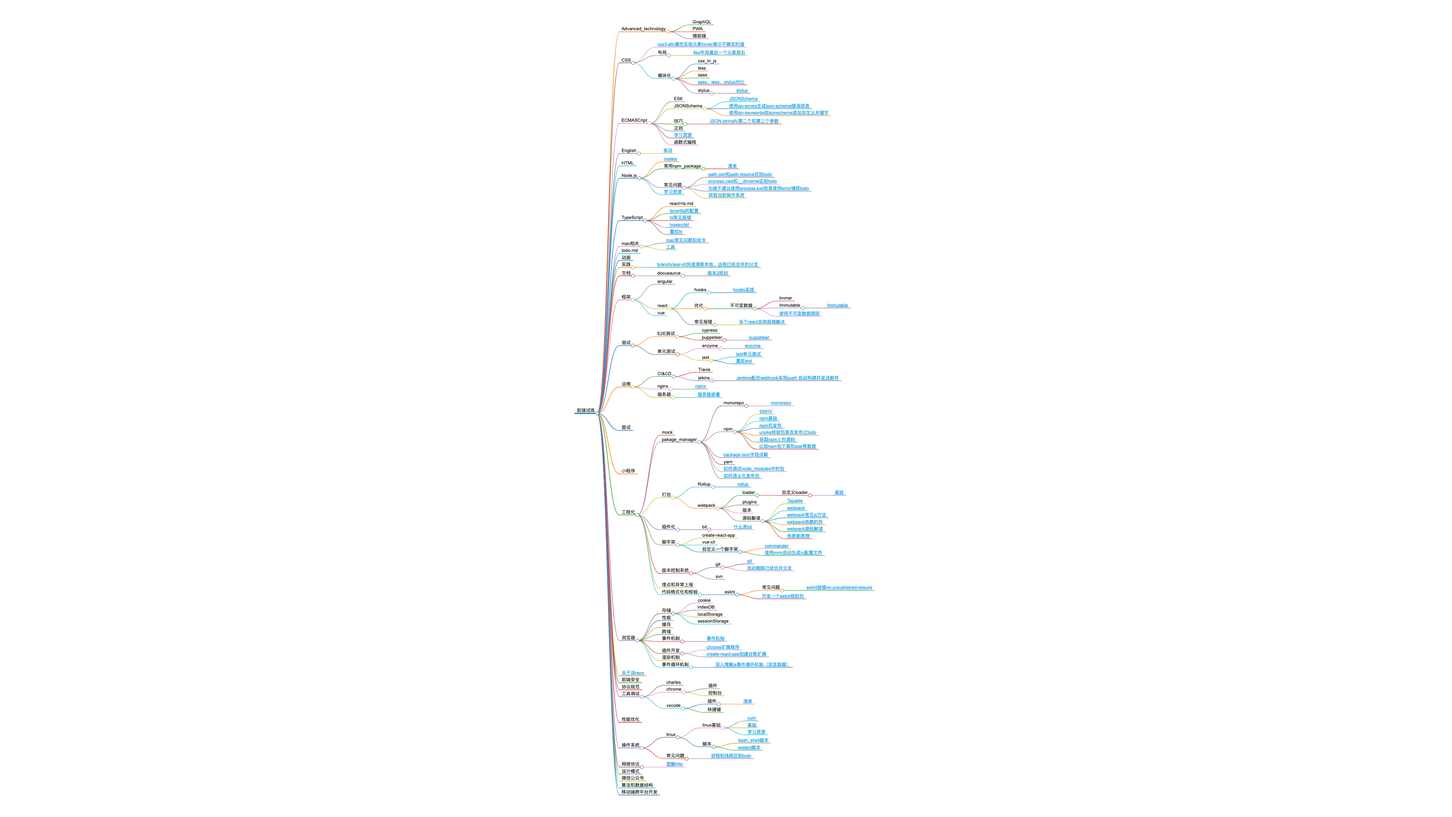
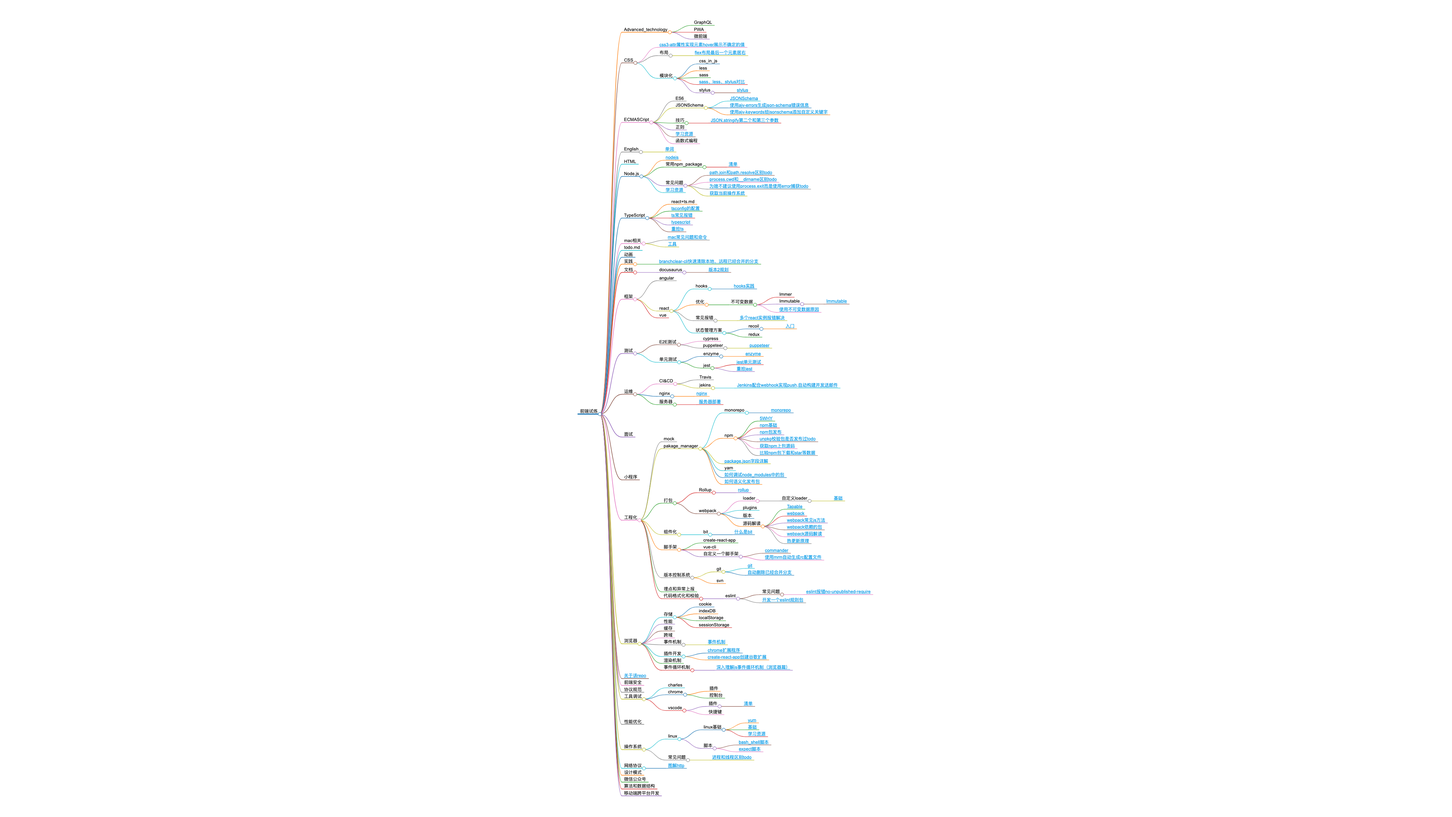
chore: updata思维导图

Changed region(s): [[0.4062, 0.031, 0.5938, 0.9926]]

diff --git a/website/static/xmind.html b/website/static/xmind.html
@@ -28,6 +28,6 @@
         (init ? init(loadPlugins, items, opts) : Promise.resolve()).then(() => {
           window.mm = Markmap.create('svg#mindmap', null, data);
         });
-      })({"t":"heading","d":1,"v":"前端试炼","c":[{"t":"list_item","d":2,"v":"Advanced_technology","c":[{"t":"list_item","d":3,"v":"GraphQL"},{"t":"list_item","d":3,"v":"PWA"},{"t":"list_item","d":3,"v":"微前端"}]},{"t":"list_item","d":2,"v":"CSS","c":[{"t":"list_item","d":3,"v":"<a href=\"docs/CSS/0729c4e1a19b9e3b6904b91e63cbd435\" title=\"\" target=\"_blank\" rel=\"noopener noreferrer\">css3-attr属性实现元素hover展示不确定的值</a>"},{"t":"list_item","d":3,"v":"布局","c":[{"t":"list_item","d":4,"v":"<a href=\"docs/CSS/布局/d894294d8c56ce41da5469f6ed173daf\" title=\"\" target=\"_blank\" rel=\"noopener noreferrer\">flex布局最后一个元素居右</a>"}]},{"t":"list_item","d":3,"v":"模块化","c":[{"t":"list_item","d":4,"v":"css_in_js"},{"t":"list_item","d":4,"v":"less"},{"t":"list_item","d":4,"v":"sass"},{"t":"list_item","d":4,"v":"<a href=\"docs/CSS/模块化/98c70242585e1c8ac87207d342ab81e0\" title=\"\" target=\"_blank\" rel=\"noopener noreferrer\">sass、less、stylus对比</a>"},{"t":"list_item","d":4,"v":"stylus","c":[{"t":"list_item","d":5,"v":"<a href=\"docs/CSS/模块化/stylus/1de4cb8a5702a6a347c89999bfa433d2\" title=\"\" target=\"_blank\" rel=\"noopener noreferrer\">stylus</a>"}]}]}]},{"t":"list_item","d":2,"v":"ECMASCript","c":[{"t":"list_item","d":3,"v":"ES6"},{"t":"list_item","d":3,"v":"JSONSchema","c":[{"t":"list_item","d":4,"v":"<a href=\"docs/ECMASCript/JSONSchema/718deb34c13a2d51e3c2ba69f472fce9\" title=\"\" target=\"_blank\" rel=\"noopener noreferrer\">JSONSchema</a>"},{"t":"list_item","d":4,"v":"<a href=\"docs/ECMASCript/JSONSchema/f7964c8f9054ea24043d6089ad339147\" title=\"\" target=\"_blank\" rel=\"noopener noreferrer\">使用ajv-errors生成json-schema错误信息</a>"},{"t":"list_item","d":4,"v":"<a href=\"docs/ECMASCript/JSONSchema/5237e232cb7cb852580db82169fdcaeb\" title=\"\" target=\"_blank\" rel=\"noopener noreferrer\">使用ajv-keywords给jsonschema添加自定义关键字</a>"}]},{"t":"list_item","d":3,"v":"技巧","c":[{"t":"list_item","d":4,"v":"<a href=\"docs/ECMASCript/技巧/5ba5a0a4b23bea437b86bee22027111d\" title=\"\" target=\"_blank\" rel=\"noopener noreferrer\">JSON.stringify第二个和第三个参数</a>"}]},{"t":"list_item","d":3,"v":"正则"},{"t":"list_item","d":3,"v":"<a href=\"docs/ECMASCript/b53484b1bcbe1911e09c68d510ac7d64\" title=\"\" target=\"_blank\" rel=\"noopener noreferrer\">学习资源</a>"},{"t":"list_item","d":3,"v":"函数式编程"}]},{"t":"list_item","d":2,"v":"English","c":[{"t":"list_item","d":3,"v":"<a href=\"docs/English/72a91cf59167d6c497b1e3057447af5a\" title=\"\" target=\"_blank\" rel=\"noopener noreferrer\">单词</a>"}]},{"t":"list_item","d":2,"v":"HTML"},{"t":"list_item","d":2,"v":"Node.js","c":[{"t":"list_item","d":3,"v":"<a href=\"docs/Node.js/2e274f275e0613b306c487b358d94ab7\" title=\"\" target=\"_blank\" rel=\"noopener noreferrer\">nodejs</a>"},{"t":"list_item","d":3,"v":"常用npm_package","c":[{"t":"list_item","d":4,"v":"<a href=\"docs/Node.js/常用npm_package/9688efbb3877b7be40b25452ccaef48f\" title=\"\" target=\"_blank\" rel=\"noopener noreferrer\">清单</a>"}]},{"t":"list_item","d":3,"v":"常见问题","c":[{"t":"list_item","d":4,"v":"<a href=\"docs/Node.js/常见问题/f3a88e293ba7550437f98043f9c3f757\" title=\"\" target=\"_blank\" rel=\"noopener noreferrer\">path.join和path.resolve区别todo</a>"},{"t":"list_item","d":4,"v":"<a href=\"docs/Node.js/常见问题/35e3cab374fc073c688aa0cf2cc1e83e\" title=\"\" target=\"_blank\" rel=\"noopener noreferrer\">process.cwd和__dirname区别todo</a>"},{"t":"list_item","d":4,"v":"<a href=\"docs/Node.js/常见问题/181a14245a9ee55171de2d116970a240\" title=\"\" target=\"_blank\" rel=\"noopener noreferrer\">为啥不建议使用process.exit而是使用error捕获todo</a>"},{"t":"list_item","d":4,"v":"<a href=\"docs/Node.js/常见问题/34f53dc634b7e09e8d32279fb508f4c5\" title=\"\" target=\"_blank\" rel=\"noopener noreferrer\">获取当前操作系统</a>"}]},{"t":"list_item","d":3,"v":"<a href=\"docs/ECMASCript/b53484b1bcbe1911e09c68d510ac7d64\" title=\"\" target=\"_blank\" rel=\"noopener noreferrer\">学习资源</a>"}]},{"t":"list_item","d":2,"v":"TypeScript","c":[{"t":"list_item","d":3,"v":"react+ts.md"},{"t":"list_item","d":3,"v":"<a href=\"docs/TypeScript/4a8620d3409c9ccc2760c0abdf77eb66\" title=\"\" target=\"_blank\" rel=\"noopener noreferrer\">tsconfig的配置</a>"},{"t":"list_item","d":3,"v":"<a href=\"docs/TypeScript/32bf4b312a9b194926bd9464ec44dbf1\" title=\"\" target=\"_blank\" rel=\"noopener noreferrer\">ts常见报错</a>"},{"t":"list_item","d":3,"v":"<a href=\"docs/TypeScript/808567b84cc51ad515d4820e54f84e31\" title=\"\" target=\"_blank\" rel=\"noopener noreferrer\">typescript</a>"},{"t":"list_item","d":3,"v":"<a href=\"docs/TypeScript/b36f6376acc1abd98aab96ef91491d2b\" title=\"\" target=\"_blank\" rel=\"noopener noreferrer\">重拾ts</a>"}]},{"t":"list_item","d":2,"v":"mac相关","c":[{"t":"list_item","d":3,"v":"<a href=\"docs/mac相关/a44fd8dd59298708f41334a88822b962\" title=\"\" target=\"_blank\" rel=\"noopener noreferrer\">mac常见问题和命令</a>"},{"t":"list_item","d":3,"v":"<a href=\"docs/mac相关/2b9f15fd56b0c6b3cd5a33c28fc68157\" title=\"\" target=\"_blank\" rel=\"noopener noreferrer\">工具</a>"}]},{"t":"list_item","d":2,"v":"todo.md"},{"t":"list_item","d":2,"v":"动画"},{"t":"list_item","d":2,"v":"实践","c":[{"t":"list_item","d":3,"v":"<a href=\"docs/实践/626060a4af5e1540907d7bcd2416544c\" title=\"\" target=\"_blank\" rel=\"noopener noreferrer\">branchclear-cli快速清除本地、远程已经合并的分支</a>"}]},{"t":"list_item","d":2,"v":"文档","c":[{"t":"list_item","d":3,"v":"docusaurus","c":[{"t":"list_item","d":4,"v":"<a href=\"docs/文档/docusaurus/a7934b68b6234157a1af4087537d1e8b\" title=\"\" target=\"_blank\" rel=\"noopener noreferrer\">版本2规划</a>"}]}]},{"t":"list_item","d":2,"v":"框架","c":[{"t":"list_item","d":3,"v":"angular"},{"t":"list_item","d":3,"v":"react","c":[{"t":"list_item","d":4,"v":"hooks","c":[{"t":"list_item","d":5,"v":"<a href=\"docs/框架/react/hooks/cc79a47e7d739125f1566a487e26fb99\" title=\"\" target=\"_blank\" rel=\"noopener noreferrer\">hooks实践</a>"}]},{"t":"list_item","d":4,"v":"优化","c":[{"t":"list_item","d":5,"v":"不可变数据","c":[{"t":"list_item","d":6,"v":"Immer"},{"t":"list_item","d":6,"v":"Immutable","c":[{"t":"list_item","d":7,"v":"<a href=\"docs/框架/react/优化/不可变数据/Immutable/1d3d9edc29eec0f35eaf85c9e8d5b659\" title=\"\" target=\"_blank\" rel=\"noopener noreferrer\">Immutable</a>"}]},{"t":"list_item","d":6,"v":"<a href=\"docs/框架/react/优化/不可变数据/7f536cb00c3fdc6439f768fb47f7a59e\" title=\"\" target=\"_blank\" rel=\"noopener noreferrer\">使用不可变数据原因</a>"}]}]},{"t":"list_item","d":4,"v":"常见报错","c":[{"t":"list_item","d":5,"v":"<a href=\"docs/框架/react/常见报错/7d0e60c89a5f550eadf89f5f22550bcc\" title=\"\" target=\"_blank\" rel=\"noopener noreferrer\">多个react实例报错解决</a>"}]}]},{"t":"list_item","d":3,"v":"vue"}]},{"t":"list_item","d":2,"v":"测试","c":[{"t":"list_item","d":3,"v":"E2E测试","c":[{"t":"list_item","d":4,"v":"cypress"},{"t":"list_item","d":4,"v":"puppeteer","c":[{"t":"list_item","d":5,"v":"<a href=\"docs/测试/E2E测试/puppeteer/179673e977b3c3f9ad055a4b4a1e4eff\" title=\"\" target=\"_blank\" rel=\"noopener noreferrer\">puppeteer</a>"}]}]},{"t":"list_item","d":3,"v":"单元测试","c":[{"t":"list_item","d":4,"v":"enzyme","c":[{"t":"list_item","d":5,"v":"<a href=\"docs/测试/单元测试/enzyme/ff68fd239a281351a53d6e0b62b17fe7\" title=\"\" target=\"_blank\" rel=\"noopener noreferrer\">enzyme</a>"}]},{"t":"list_item","d":4,"v":"jest","c":[{"t":"list_item","d":5,"v":"<a href=\"docs/测试/单元测试/jest/094b039468990ad513f1f8dd484d8dc2\" title=\"\" target=\"_blank\" rel=\"noopener noreferrer\">jest单元测试</a>"},{"t":"list_item","d":5,"v":"<a href=\"docs/测试/单元测试/jest/b1f6cee7ef1784df1f5f69a9c4a785da\" title=\"\" target=\"_blank\" rel=\"noopener noreferrer\">重拾jest</a>"}]}]}]},{"t":"list_item","d":2,"v":"运维","c":[{"t":"list_item","d":3,"v":"CI&amp;CD","c":[{"t":"list_item","d":4,"v":"Travis"},{"t":"list_item","d":4,"v":"jekins","c":[{"t":"list_item","d":5,"v":"<a href=\"docs/运维/CI&amp;CD/jekins/d945d19c0ddc3f3d3fd73e4e1dabfcf1\" title=\"\" target=\"_blank\" rel=\"noopener noreferrer\">Jenkins配合webhook实现push,自动构建并发送邮件</a>"}]}]},{"t":"list_item","d":3,"v":"nginx","c":[{"t":"list_item","d":4,"v":"<a href=\"docs/运维/nginx/df1da39a6e72280164ae3ce63cb1fc4a\" title=\"\" target=\"_blank\" rel=\"noopener noreferrer\">nginx</a>"}]},{"t":"list_item","d":3,"v":"服务器","c":[{"t":"list_item","d":4,"v":"<a href=\"docs/运维/服务器/08c9e14f9b32a6e0c3ce858267d3e639\" title=\"\" target=\"_blank\" rel=\"noopener noreferrer\">服务器部署</a>"}]}]},{"t":"list_item","d":2,"v":"面试"},{"t":"list_item","d":2,"v":"小程序"},{"t":"list_item","d":2,"v":"工程化","c":[{"t":"list_item","d":3,"v":"mock"},{"t":"list_item","d":3,"v":"pakage_manager","c":[{"t":"list_item","d":4,"v":"monorepo","c":[{"t":"list_item","d":5,"v":"<a href=\"docs/工程化/pakage_manager/monorepo/0839e5ac070eca1b53807ffcbfbf5cc6\" title=\"\" target=\"_blank\" rel=\"noopener noreferrer\">monorepo</a>"}]},{"t":"list_item","d":4,"v":"npm","c":[{"t":"list_item","d":5,"v":"<a href=\"docs/工程化/pakage_manager/npm/c7133389f53e8d534c388d5ce8b37459\" title=\"\" target=\"_blank\" rel=\"noopener noreferrer\">5WHY</a>"},{"t":"list_item","d":5,"v":"<a href=\"docs/工程化/pakage_manager/npm/4bc8b6d9c0d959fc89304c7b6ca759d2\" title=\"\" target=\"_blank\" rel=\"noopener noreferrer\">npm基础</a>"},{"t":"list_item","d":5,"v":"<a href=\"docs/工程化/pakage_manager/npm/ba56c3b18aefa148f9439f026ec3f973\" title=\"\" target=\"_blank\" rel=\"noopener noreferrer\">npm包发布</a>"},{"t":"list_item","d":5,"v":"<a href=\"docs/工程化/pakage_manager/npm/d65b7b7b836dd8738e6504b00c5d8ec9\" title=\"\" target=\"_blank\" rel=\"noopener noreferrer\">unpkg校验包是否发布过todo</a>"},{"t":"list_item","d":5,"v":"<a href=\"docs/工程化/pakage_manager/npm/09b0d7c93d19d925aaec8215b046a974\" title=\"\" target=\"_blank\" rel=\"noopener noreferrer\">获取npm上包源码</a>"},{"t":"list_item","d":5,"v":"<a href=\"docs/工程化/pakage_manager/npm/c6ce67aed5b47d0a31123ae15d9e581a\" title=\"\" target=\"_blank\" rel=\"noopener noreferrer\">比较npm包下载和star等数据</a>"}]},{"t":"list_item","d":4,"v":"<a href=\"docs/工程化/pakage_manager/38f14e8081af1e36ddd422fa9b4db94a\" title=\"\" target=\"_blank\" rel=\"noopener noreferrer\">package.json字段详解</a>"},{"t":"list_item","d":4,"v":"yarn"},{"t":"list_item","d":4,"v":"<a href=\"docs/工程化/pakage_manager/e6a07bea153f8b002ef8dc47f8bc1311\" title=\"\" target=\"_blank\" rel=\"noopener noreferrer\">如何调试node_modules中的包</a>"},{"t":"list_item","d":4,"v":"<a href=\"docs/工程化/pakage_manager/ec0f88d99c3ac3c6b5038c575ac4d1ce\" title=\"\" target=\"_blank\" rel=\"noopener noreferrer\">如何语义化发布包</a>"}]},{"t":"list_item","d":3,"v":"打包","c":[{"t":"list_item","d":4,"v":"Rollup","c":[{"t":"list_item","d":5,"v":"<a href=\"docs/工程化/打包/Rollup/4918d3072fb3da6be9ad6cfe54c020f3\" title=\"\" target=\"_blank\" rel=\"noopener noreferrer\">rollup</a>"}]},{"t":"list_item","d":4,"v":"webpack","c":[{"t":"list_item","d":5,"v":"loader","c":[{"t":"list_item","d":6,"v":"自定义loader","c":[{"t":"list_item","d":7,"v":"<a href=\"docs/工程化/打包/webpack/loader/自定义loader/9b68a2b86fd6b41392413eebbe754257\" title=\"\" target=\"_blank\" rel=\"noopener noreferrer\">基础</a>"}]}]},{"t":"list_item","d":5,"v":"plugins"},{"t":"list_item","d":5,"v":"版本"},{"t":"list_item","d":5,"v":"源码解读","c":[{"t":"list_item","d":6,"v":"<a href=\"docs/工程化/打包/webpack/源码解读/3044cf73a36f83e5344247f79ffb719e\" title=\"\" target=\"_blank\" rel=\"noopener noreferrer\">Tapable</a>"},{"t":"list_item","d":6,"v":"<a href=\"docs/工程化/打包/webpack/源码解读/8b9409a6ad189493556150ffca9a2079\" title=\"\" target=\"_blank\" rel=\"noopener noreferrer\">webpack</a>"},{"t":"list_item","d":6,"v":"<a href=\"docs/工程化/打包/webpack/源码解读/7cb10912f28c1696659c6131b517f27c\" title=\"\" target=\"_blank\" rel=\"noopener noreferrer\">webpack常见js方法</a>"},{"t":"list_item","d":6,"v":"<a href=\"docs/工程化/打包/webpack/源码解读/0889ebe5191ee49173a6c02e5d4ccd6f\" title=\"\" target=\"_blank\" rel=\"noopener noreferrer\">webpack依赖的包</a>"},{"t":"list_item","d":6,"v":"<a href=\"docs/工程化/打包/webpack/源码解读/80e8979bbebe30571bf98fea6d3b32d0\" title=\"\" target=\"_blank\" rel=\"noopener noreferrer\">webpack源码解读</a>"},{"t":"list_item","d":6,"v":"<a href=\"docs/工程化/打包/webpack/源码解读/768e191e2dc797ba437ddbf619dcf3b5\" title=\"\" target=\"_blank\" rel=\"noopener noreferrer\">热更新原理</a>"}]}]}]},{"t":"list_item","d":3,"v":"组件化","c":[{"t":"list_item","d":4,"v":"bit","c":[{"t":"list_item","d":5,"v":"<a href=\"docs/工程化/组件化/bit/a0d47b851468953d2c75ec36293fc240\" title=\"\" target=\"_blank\" rel=\"noopener noreferrer\">什么是bit</a>"}]}]},{"t":"list_item","d":3,"v":"脚手架","c":[{"t":"list_item","d":4,"v":"create-react-app"},{"t":"list_item","d":4,"v":"vue-cli"},{"t":"list_item","d":4,"v":"自定义一个脚手架","c":[{"t":"list_item","d":5,"v":"<a href=\"docs/工程化/脚手架/自定义一个脚手架/e1f3c1423014acd77d6282114faf6935\" title=\"\" target=\"_blank\" rel=\"noopener noreferrer\">commander</a>"},{"t":"list_item","d":5,"v":"<a href=\"docs/工程化/脚手架/自定义一个脚手架/08da76489044cd5dfcc111cb0b8b8d58\" title=\"\" target=\"_blank\" rel=\"noopener noreferrer\">使用mrm自动生成rc配置文件</a>"}]}]},{"t":"list_item","d":3,"v":"版本控制系统","c":[{"t":"list_item","d":4,"v":"git","c":[{"t":"list_item","d":5,"v":"<a href=\"docs/工程化/版本控制系统/git/85735fc293ff4dbf3ef3e42201cb061d\" title=\"\" target=\"_blank\" rel=\"noopener noreferrer\">git</a>"},{"t":"list_item","d":5,"v":"<a href=\"docs/工程化/版本控制系统/git/7ee6448a4e193516af12ff819b930f2f\" title=\"\" target=\"_blank\" rel=\"noopener noreferrer\">自动删除已经合并分支</a>"}]},{"t":"list_item","d":4,"v":"svn"}]},{"t":"list_item","d":3,"v":"埋点和异常上报"},{"t":"list_item","d":3,"v":"代码格式化和校验","c":[{"t":"list_item","d":4,"v":"eslint","c":[{"t":"list_item","d":5,"v":"常见问题","c":[{"t":"list_item","d":6,"v":"<a href=\"docs/工程化/代码格式化和校验/eslint/常见问题/30a69d78ea80299566efb6a61e348ec8\" title=\"\" target=\"_blank\" rel=\"noopener noreferrer\">eslint报错no-unpublished-require</a>"}]},{"t":"list_item","d":5,"v":"<a href=\"docs/工程化/代码格式化和校验/eslint/d8f7b00347a3af68dcfcf44d01eaecad\" title=\"\" target=\"_blank\" rel=\"noopener noreferrer\">开发一个eslint规则包</a>"}]}]}]},{"t":"list_item","d":2,"v":"浏览器","c":[{"t":"list_item","d":3,"v":"存储","c":[{"t":"list_item","d":4,"v":"cookie"},{"t":"list_item","d":4,"v":"indexDB"},{"t":"list_item","d":4,"v":"localStorage"},{"t":"list_item","d":4,"v":"sessionStorage"}]},{"t":"list_item","d":3,"v":"性能"},{"t":"list_item","d":3,"v":"缓存"},{"t":"list_item","d":3,"v":"跨域"},{"t":"list_item","d":3,"v":"事件机制","c":[{"t":"list_item","d":4,"v":"<a href=\"docs/浏览器/事件机制/7af5dc889f753bd70e5f7ef171c7060f\" title=\"\" target=\"_blank\" rel=\"noopener noreferrer\">事件机制</a>"}]},{"t":"list_item","d":3,"v":"插件开发","c":[{"t":"list_item","d":4,"v":"<a href=\"docs/浏览器/插件开发/2c4c0445df023db773d193c34210f844\" title=\"\" target=\"_blank\" rel=\"noopener noreferrer\">chrome扩展程序</a>"},{"t":"list_item","d":4,"v":"<a href=\"docs/浏览器/插件开发/bfe71b448da24918198c18263f04233a\" title=\"\" target=\"_blank\" rel=\"noopener noreferrer\">create-react-app创建谷歌扩展</a>"}]},{"t":"list_item","d":3,"v":"渲染机制"},{"t":"list_item","d":3,"v":"事件循环机制","c":[{"t":"list_item","d":4,"v":"<a href=\"docs/浏览器/事件循环机制/dc678db259507b0c4aeb94631e2dc8a7\" title=\"\" target=\"_blank\" rel=\"noopener noreferrer\">深入理解js事件循环机制（浏览器篇）</a>"}]}]},{"t":"list_item","d":2,"v":"<a href=\"docs/95a148348b289ba387509c05eb1c6af2\" title=\"\" target=\"_blank\" rel=\"noopener noreferrer\">关于该repo</a>"},{"t":"list_item","d":2,"v":"前端安全"},{"t":"list_item","d":2,"v":"协议规范"},{"t":"list_item","d":2,"v":"工具调试","c":[{"t":"list_item","d":3,"v":"charles"},{"t":"list_item","d":3,"v":"chrome","c":[{"t":"list_item","d":4,"v":"插件"},{"t":"list_item","d":4,"v":"控制台"}]},{"t":"list_item","d":3,"v":"vscode","c":[{"t":"list_item","d":4,"v":"插件","c":[{"t":"list_item","d":5,"v":"<a href=\"docs/Node.js/常用npm_package/9688efbb3877b7be40b25452ccaef48f\" title=\"\" target=\"_blank\" rel=\"noopener noreferrer\">清单</a>"}]},{"t":"list_item","d":4,"v":"快捷键"}]}]},{"t":"list_item","d":2,"v":"性能优化"},{"t":"list_item","d":2,"v":"操作系统","c":[{"t":"list_item","d":3,"v":"linux","c":[{"t":"list_item","d":4,"v":"linux基础","c":[{"t":"list_item","d":5,"v":"<a href=\"docs/操作系统/linux/linux基础/760bccd78d82b9e52641e9273b7baad5\" title=\"\" target=\"_blank\" rel=\"noopener noreferrer\">yum</a>"},{"t":"list_item","d":5,"v":"<a href=\"docs/工程化/打包/webpack/loader/自定义loader/9b68a2b86fd6b41392413eebbe754257\" title=\"\" target=\"_blank\" rel=\"noopener noreferrer\">基础</a>"},{"t":"list_item","d":5,"v":"<a href=\"docs/ECMASCript/b53484b1bcbe1911e09c68d510ac7d64\" title=\"\" target=\"_blank\" rel=\"noopener noreferrer\">学习资源</a>"}]},{"t":"list_item","d":4,"v":"脚本","c":[{"t":"list_item","d":5,"v":"<a href=\"docs/操作系统/linux/脚本/5d8743a01675138db72310478b6c7f30\" title=\"\" target=\"_blank\" rel=\"noopener noreferrer\">bash_shell脚本</a>"},{"t":"list_item","d":5,"v":"<a href=\"docs/操作系统/linux/脚本/c89e3ed149c086944696ba0fe3a5ffde\" title=\"\" target=\"_blank\" rel=\"noopener noreferrer\">expect脚本</a>"}]}]},{"t":"list_item","d":3,"v":"常见问题","c":[{"t":"list_item","d":4,"v":"<a href=\"docs/操作系统/常见问题/5d2f732d1880309d622ee322b766ddcb\" title=\"\" target=\"_blank\" rel=\"noopener noreferrer\">进程和线程区别todo</a>"}]}]},{"t":"list_item","d":2,"v":"网络协议","c":[{"t":"list_item","d":3,"v":"<a href=\"docs/网络协议/a7785cd0374e6044ab0a1c64fbbc81fa\" title=\"\" target=\"_blank\" rel=\"noopener noreferrer\">图解http</a>"}]},{"t":"list_item","d":2,"v":"设计模式"},{"t":"list_item","d":2,"v":"微信公众号"},{"t":"list_item","d":2,"v":"算法和数据结构"},{"t":"list_item","d":2,"v":"移动端跨平台开发"}]},(loadPlugins, items, opts) => loadPlugins(items, opts),["prism"],{"prism":true})</script>
+      })({"t":"heading","d":1,"v":"前端试炼","c":[{"t":"list_item","d":2,"v":"Advanced_technology","c":[{"t":"list_item","d":3,"v":"GraphQL"},{"t":"list_item","d":3,"v":"PWA"},{"t":"list_item","d":3,"v":"微前端"}]},{"t":"list_item","d":2,"v":"CSS","c":[{"t":"list_item","d":3,"v":"<a href=\"docs/CSS/0729c4e1a19b9e3b6904b91e63cbd435\" title=\"\" target=\"_blank\" rel=\"noopener noreferrer\">css3-attr属性实现元素hover展示不确定的值</a>"},{"t":"list_item","d":3,"v":"布局","c":[{"t":"list_item","d":4,"v":"<a href=\"docs/CSS/布局/d894294d8c56ce41da5469f6ed173daf\" title=\"\" target=\"_blank\" rel=\"noopener noreferrer\">flex布局最后一个元素居右</a>"}]},{"t":"list_item","d":3,"v":"模块化","c":[{"t":"list_item","d":4,"v":"css_in_js"},{"t":"list_item","d":4,"v":"less"},{"t":"list_item","d":4,"v":"sass"},{"t":"list_item","d":4,"v":"<a href=\"docs/CSS/模块化/98c70242585e1c8ac87207d342ab81e0\" title=\"\" target=\"_blank\" rel=\"noopener noreferrer\">sass、less、stylus对比</a>"},{"t":"list_item","d":4,"v":"stylus","c":[{"t":"list_item","d":5,"v":"<a href=\"docs/CSS/模块化/stylus/1de4cb8a5702a6a347c89999bfa433d2\" title=\"\" target=\"_blank\" rel=\"noopener noreferrer\">stylus</a>"}]}]}]},{"t":"list_item","d":2,"v":"ECMASCript","c":[{"t":"list_item","d":3,"v":"ES6"},{"t":"list_item","d":3,"v":"JSONSchema","c":[{"t":"list_item","d":4,"v":"<a href=\"docs/ECMASCript/JSONSchema/718deb34c13a2d51e3c2ba69f472fce9\" title=\"\" target=\"_blank\" rel=\"noopener noreferrer\">JSONSchema</a>"},{"t":"list_item","d":4,"v":"<a href=\"docs/ECMASCript/JSONSchema/f7964c8f9054ea24043d6089ad339147\" title=\"\" target=\"_blank\" rel=\"noopener noreferrer\">使用ajv-errors生成json-schema错误信息</a>"},{"t":"list_item","d":4,"v":"<a href=\"docs/ECMASCript/JSONSchema/5237e232cb7cb852580db82169fdcaeb\" title=\"\" target=\"_blank\" rel=\"noopener noreferrer\">使用ajv-keywords给jsonschema添加自定义关键字</a>"}]},{"t":"list_item","d":3,"v":"技巧","c":[{"t":"list_item","d":4,"v":"<a href=\"docs/ECMASCript/技巧/5ba5a0a4b23bea437b86bee22027111d\" title=\"\" target=\"_blank\" rel=\"noopener noreferrer\">JSON.stringify第二个和第三个参数</a>"}]},{"t":"list_item","d":3,"v":"正则"},{"t":"list_item","d":3,"v":"<a href=\"docs/ECMASCript/b53484b1bcbe1911e09c68d510ac7d64\" title=\"\" target=\"_blank\" rel=\"noopener noreferrer\">学习资源</a>"},{"t":"list_item","d":3,"v":"函数式编程"}]},{"t":"list_item","d":2,"v":"English","c":[{"t":"list_item","d":3,"v":"<a href=\"docs/English/72a91cf59167d6c497b1e3057447af5a\" title=\"\" target=\"_blank\" rel=\"noopener noreferrer\">单词</a>"}]},{"t":"list_item","d":2,"v":"HTML"},{"t":"list_item","d":2,"v":"Node.js","c":[{"t":"list_item","d":3,"v":"<a href=\"docs/Node.js/2e274f275e0613b306c487b358d94ab7\" title=\"\" target=\"_blank\" rel=\"noopener noreferrer\">nodejs</a>"},{"t":"list_item","d":3,"v":"常用npm_package","c":[{"t":"list_item","d":4,"v":"<a href=\"docs/Node.js/常用npm_package/9688efbb3877b7be40b25452ccaef48f\" title=\"\" target=\"_blank\" rel=\"noopener noreferrer\">清单</a>"}]},{"t":"list_item","d":3,"v":"常见问题","c":[{"t":"list_item","d":4,"v":"<a href=\"docs/Node.js/常见问题/f3a88e293ba7550437f98043f9c3f757\" title=\"\" target=\"_blank\" rel=\"noopener noreferrer\">path.join和path.resolve区别todo</a>"},{"t":"list_item","d":4,"v":"<a href=\"docs/Node.js/常见问题/35e3cab374fc073c688aa0cf2cc1e83e\" title=\"\" target=\"_blank\" rel=\"noopener noreferrer\">process.cwd和__dirname区别todo</a>"},{"t":"list_item","d":4,"v":"<a href=\"docs/Node.js/常见问题/181a14245a9ee55171de2d116970a240\" title=\"\" target=\"_blank\" rel=\"noopener noreferrer\">为啥不建议使用process.exit而是使用error捕获todo</a>"},{"t":"list_item","d":4,"v":"<a href=\"docs/Node.js/常见问题/34f53dc634b7e09e8d32279fb508f4c5\" title=\"\" target=\"_blank\" rel=\"noopener noreferrer\">获取当前操作系统</a>"}]},{"t":"list_item","d":3,"v":"<a href=\"docs/ECMASCript/b53484b1bcbe1911e09c68d510ac7d64\" title=\"\" target=\"_blank\" rel=\"noopener noreferrer\">学习资源</a>"}]},{"t":"list_item","d":2,"v":"TypeScript","c":[{"t":"list_item","d":3,"v":"react+ts.md"},{"t":"list_item","d":3,"v":"<a href=\"docs/TypeScript/4a8620d3409c9ccc2760c0abdf77eb66\" title=\"\" target=\"_blank\" rel=\"noopener noreferrer\">tsconfig的配置</a>"},{"t":"list_item","d":3,"v":"<a href=\"docs/TypeScript/32bf4b312a9b194926bd9464ec44dbf1\" title=\"\" target=\"_blank\" rel=\"noopener noreferrer\">ts常见报错</a>"},{"t":"list_item","d":3,"v":"<a href=\"docs/TypeScript/808567b84cc51ad515d4820e54f84e31\" title=\"\" target=\"_blank\" rel=\"noopener noreferrer\">typescript</a>"},{"t":"list_item","d":3,"v":"<a href=\"docs/TypeScript/b36f6376acc1abd98aab96ef91491d2b\" title=\"\" target=\"_blank\" rel=\"noopener noreferrer\">重拾ts</a>"}]},{"t":"list_item","d":2,"v":"mac相关","c":[{"t":"list_item","d":3,"v":"<a href=\"docs/mac相关/a44fd8dd59298708f41334a88822b962\" title=\"\" target=\"_blank\" rel=\"noopener noreferrer\">mac常见问题和命令</a>"},{"t":"list_item","d":3,"v":"<a href=\"docs/mac相关/2b9f15fd56b0c6b3cd5a33c28fc68157\" title=\"\" target=\"_blank\" rel=\"noopener noreferrer\">工具</a>"}]},{"t":"list_item","d":2,"v":"todo.md"},{"t":"list_item","d":2,"v":"动画"},{"t":"list_item","d":2,"v":"实践","c":[{"t":"list_item","d":3,"v":"<a href=\"docs/实践/626060a4af5e1540907d7bcd2416544c\" title=\"\" target=\"_blank\" rel=\"noopener noreferrer\">branchclear-cli快速清除本地、远程已经合并的分支</a>"}]},{"t":"list_item","d":2,"v":"文档","c":[{"t":"list_item","d":3,"v":"docusaurus","c":[{"t":"list_item","d":4,"v":"<a href=\"docs/文档/docusaurus/a7934b68b6234157a1af4087537d1e8b\" title=\"\" target=\"_blank\" rel=\"noopener noreferrer\">版本2规划</a>"}]}]},{"t":"list_item","d":2,"v":"框架","c":[{"t":"list_item","d":3,"v":"angular"},{"t":"list_item","d":3,"v":"react","c":[{"t":"list_item","d":4,"v":"hooks","c":[{"t":"list_item","d":5,"v":"<a href=\"docs/框架/react/hooks/cc79a47e7d739125f1566a487e26fb99\" title=\"\" target=\"_blank\" rel=\"noopener noreferrer\">hooks实践</a>"}]},{"t":"list_item","d":4,"v":"优化","c":[{"t":"list_item","d":5,"v":"不可变数据","c":[{"t":"list_item","d":6,"v":"Immer"},{"t":"list_item","d":6,"v":"Immutable","c":[{"t":"list_item","d":7,"v":"<a href=\"docs/框架/react/优化/不可变数据/Immutable/1d3d9edc29eec0f35eaf85c9e8d5b659\" title=\"\" target=\"_blank\" rel=\"noopener noreferrer\">Immutable</a>"}]},{"t":"list_item","d":6,"v":"<a href=\"docs/框架/react/优化/不可变数据/7f536cb00c3fdc6439f768fb47f7a59e\" title=\"\" target=\"_blank\" rel=\"noopener noreferrer\">使用不可变数据原因</a>"}]}]},{"t":"list_item","d":4,"v":"常见报错","c":[{"t":"list_item","d":5,"v":"<a href=\"docs/框架/react/常见报错/7d0e60c89a5f550eadf89f5f22550bcc\" title=\"\" target=\"_blank\" rel=\"noopener noreferrer\">多个react实例报错解决</a>"}]},{"t":"list_item","d":4,"v":"状态管理方案","c":[{"t":"list_item","d":5,"v":"recoil","c":[{"t":"list_item","d":6,"v":"<a href=\"docs/框架/react/状态管理方案/recoil/d6ba1713e090568a7789d83bf8a1c052\" title=\"\" target=\"_blank\" rel=\"noopener noreferrer\">入门</a>"}]},{"t":"list_item","d":5,"v":"redux"}]}]},{"t":"list_item","d":3,"v":"vue"}]},{"t":"list_item","d":2,"v":"测试","c":[{"t":"list_item","d":3,"v":"E2E测试","c":[{"t":"list_item","d":4,"v":"cypress"},{"t":"list_item","d":4,"v":"puppeteer","c":[{"t":"list_item","d":5,"v":"<a href=\"docs/测试/E2E测试/puppeteer/179673e977b3c3f9ad055a4b4a1e4eff\" title=\"\" target=\"_blank\" rel=\"noopener noreferrer\">puppeteer</a>"}]}]},{"t":"list_item","d":3,"v":"单元测试","c":[{"t":"list_item","d":4,"v":"enzyme","c":[{"t":"list_item","d":5,"v":"<a href=\"docs/测试/单元测试/enzyme/ff68fd239a281351a53d6e0b62b17fe7\" title=\"\" target=\"_blank\" rel=\"noopener noreferrer\">enzyme</a>"}]},{"t":"list_item","d":4,"v":"jest","c":[{"t":"list_item","d":5,"v":"<a href=\"docs/测试/单元测试/jest/094b039468990ad513f1f8dd484d8dc2\" title=\"\" target=\"_blank\" rel=\"noopener noreferrer\">jest单元测试</a>"},{"t":"list_item","d":5,"v":"<a href=\"docs/测试/单元测试/jest/b1f6cee7ef1784df1f5f69a9c4a785da\" title=\"\" target=\"_blank\" rel=\"noopener noreferrer\">重拾jest</a>"}]}]}]},{"t":"list_item","d":2,"v":"运维","c":[{"t":"list_item","d":3,"v":"CI&amp;CD","c":[{"t":"list_item","d":4,"v":"Travis"},{"t":"list_item","d":4,"v":"jekins","c":[{"t":"list_item","d":5,"v":"<a href=\"docs/运维/CI&amp;CD/jekins/d945d19c0ddc3f3d3fd73e4e1dabfcf1\" title=\"\" target=\"_blank\" rel=\"noopener noreferrer\">Jenkins配合webhook实现push,自动构建并发送邮件</a>"}]}]},{"t":"list_item","d":3,"v":"nginx","c":[{"t":"list_item","d":4,"v":"<a href=\"docs/运维/nginx/df1da39a6e72280164ae3ce63cb1fc4a\" title=\"\" target=\"_blank\" rel=\"noopener noreferrer\">nginx</a>"}]},{"t":"list_item","d":3,"v":"服务器","c":[{"t":"list_item","d":4,"v":"<a href=\"docs/运维/服务器/08c9e14f9b32a6e0c3ce858267d3e639\" title=\"\" target=\"_blank\" rel=\"noopener noreferrer\">服务器部署</a>"}]}]},{"t":"list_item","d":2,"v":"面试"},{"t":"list_item","d":2,"v":"小程序"},{"t":"list_item","d":2,"v":"工程化","c":[{"t":"list_item","d":3,"v":"mock"},{"t":"list_item","d":3,"v":"pakage_manager","c":[{"t":"list_item","d":4,"v":"monorepo","c":[{"t":"list_item","d":5,"v":"<a href=\"docs/工程化/pakage_manager/monorepo/0839e5ac070eca1b53807ffcbfbf5cc6\" title=\"\" target=\"_blank\" rel=\"noopener noreferrer\">monorepo</a>"}]},{"t":"list_item","d":4,"v":"npm","c":[{"t":"list_item","d":5,"v":"<a href=\"docs/工程化/pakage_manager/npm/c7133389f53e8d534c388d5ce8b37459\" title=\"\" target=\"_blank\" rel=\"noopener noreferrer\">5WHY</a>"},{"t":"list_item","d":5,"v":"<a href=\"docs/工程化/pakage_manager/npm/4bc8b6d9c0d959fc89304c7b6ca759d2\" title=\"\" target=\"_blank\" rel=\"noopener noreferrer\">npm基础</a>"},{"t":"list_item","d":5,"v":"<a href=\"docs/工程化/pakage_manager/npm/ba56c3b18aefa148f9439f026ec3f973\" title=\"\" target=\"_blank\" rel=\"noopener noreferrer\">npm包发布</a>"},{"t":"list_item","d":5,"v":"<a href=\"docs/工程化/pakage_manager/npm/d65b7b7b836dd8738e6504b00c5d8ec9\" title=\"\" target=\"_blank\" rel=\"noopener noreferrer\">unpkg校验包是否发布过todo</a>"},{"t":"list_item","d":5,"v":"<a href=\"docs/工程化/pakage_manager/npm/09b0d7c93d19d925aaec8215b046a974\" title=\"\" target=\"_blank\" rel=\"noopener noreferrer\">获取npm上包源码</a>"},{"t":"list_item","d":5,"v":"<a href=\"docs/工程化/pakage_manager/npm/c6ce67aed5b47d0a31123ae15d9e581a\" title=\"\" target=\"_blank\" rel=\"noopener noreferrer\">比较npm包下载和star等数据</a>"}]},{"t":"list_item","d":4,"v":"<a href=\"docs/工程化/pakage_manager/38f14e8081af1e36ddd422fa9b4db94a\" title=\"\" target=\"_blank\" rel=\"noopener noreferrer\">package.json字段详解</a>"},{"t":"list_item","d":4,"v":"yarn"},{"t":"list_item","d":4,"v":"<a href=\"docs/工程化/pakage_manager/e6a07bea153f8b002ef8dc47f8bc1311\" title=\"\" target=\"_blank\" rel=\"noopener noreferrer\">如何调试node_modules中的包</a>"},{"t":"list_item","d":4,"v":"<a href=\"docs/工程化/pakage_manager/ec0f88d99c3ac3c6b5038c575ac4d1ce\" title=\"\" target=\"_blank\" rel=\"noopener noreferrer\">如何语义化发布包</a>"}]},{"t":"list_item","d":3,"v":"打包","c":[{"t":"list_item","d":4,"v":"Rollup","c":[{"t":"list_item","d":5,"v":"<a href=\"docs/工程化/打包/Rollup/4918d3072fb3da6be9ad6cfe54c020f3\" title=\"\" target=\"_blank\" rel=\"noopener noreferrer\">rollup</a>"}]},{"t":"list_item","d":4,"v":"webpack","c":[{"t":"list_item","d":5,"v":"loader","c":[{"t":"list_item","d":6,"v":"自定义loader","c":[{"t":"list_item","d":7,"v":"<a href=\"docs/工程化/打包/webpack/loader/自定义loader/9b68a2b86fd6b41392413eebbe754257\" title=\"\" target=\"_blank\" rel=\"noopener noreferrer\">基础</a>"}]}]},{"t":"list_item","d":5,"v":"plugins"},{"t":"list_item","d":5,"v":"版本"},{"t":"list_item","d":5,"v":"源码解读","c":[{"t":"list_item","d":6,"v":"<a href=\"docs/工程化/打包/webpack/源码解读/3044cf73a36f83e5344247f79ffb719e\" title=\"\" target=\"_blank\" rel=\"noopener noreferrer\">Tapable</a>"},{"t":"list_item","d":6,"v":"<a href=\"docs/工程化/打包/webpack/源码解读/8b9409a6ad189493556150ffca9a2079\" title=\"\" target=\"_blank\" rel=\"noopener noreferrer\">webpack</a>"},{"t":"list_item","d":6,"v":"<a href=\"docs/工程化/打包/webpack/源码解读/7cb10912f28c1696659c6131b517f27c\" title=\"\" target=\"_blank\" rel=\"noopener noreferrer\">webpack常见js方法</a>"},{"t":"list_item","d":6,"v":"<a href=\"docs/工程化/打包/webpack/源码解读/0889ebe5191ee49173a6c02e5d4ccd6f\" title=\"\" target=\"_blank\" rel=\"noopener noreferrer\">webpack依赖的包</a>"},{"t":"list_item","d":6,"v":"<a href=\"docs/工程化/打包/webpack/源码解读/80e8979bbebe30571bf98fea6d3b32d0\" title=\"\" target=\"_blank\" rel=\"noopener noreferrer\">webpack源码解读</a>"},{"t":"list_item","d":6,"v":"<a href=\"docs/工程化/打包/webpack/源码解读/768e191e2dc797ba437ddbf619dcf3b5\" title=\"\" target=\"_blank\" rel=\"noopener noreferrer\">热更新原理</a>"}]}]}]},{"t":"list_item","d":3,"v":"组件化","c":[{"t":"list_item","d":4,"v":"bit","c":[{"t":"list_item","d":5,"v":"<a href=\"docs/工程化/组件化/bit/a0d47b851468953d2c75ec36293fc240\" title=\"\" target=\"_blank\" rel=\"noopener noreferrer\">什么是bit</a>"}]}]},{"t":"list_item","d":3,"v":"脚手架","c":[{"t":"list_item","d":4,"v":"create-react-app"},{"t":"list_item","d":4,"v":"vue-cli"},{"t":"list_item","d":4,"v":"自定义一个脚手架","c":[{"t":"list_item","d":5,"v":"<a href=\"docs/工程化/脚手架/自定义一个脚手架/e1f3c1423014acd77d6282114faf6935\" title=\"\" target=\"_blank\" rel=\"noopener noreferrer\">commander</a>"},{"t":"list_item","d":5,"v":"<a href=\"docs/工程化/脚手架/自定义一个脚手架/08da76489044cd5dfcc111cb0b8b8d58\" title=\"\" target=\"_blank\" rel=\"noopener noreferrer\">使用mrm自动生成rc配置文件</a>"}]}]},{"t":"list_item","d":3,"v":"版本控制系统","c":[{"t":"list_item","d":4,"v":"git","c":[{"t":"list_item","d":5,"v":"<a href=\"docs/工程化/版本控制系统/git/85735fc293ff4dbf3ef3e42201cb061d\" title=\"\" target=\"_blank\" rel=\"noopener noreferrer\">git</a>"},{"t":"list_item","d":5,"v":"<a href=\"docs/工程化/版本控制系统/git/7ee6448a4e193516af12ff819b930f2f\" title=\"\" target=\"_blank\" rel=\"noopener noreferrer\">自动删除已经合并分支</a>"}]},{"t":"list_item","d":4,"v":"svn"}]},{"t":"list_item","d":3,"v":"埋点和异常上报"},{"t":"list_item","d":3,"v":"代码格式化和校验","c":[{"t":"list_item","d":4,"v":"eslint","c":[{"t":"list_item","d":5,"v":"常见问题","c":[{"t":"list_item","d":6,"v":"<a href=\"docs/工程化/代码格式化和校验/eslint/常见问题/30a69d78ea80299566efb6a61e348ec8\" title=\"\" target=\"_blank\" rel=\"noopener noreferrer\">eslint报错no-unpublished-require</a>"}]},{"t":"list_item","d":5,"v":"<a href=\"docs/工程化/代码格式化和校验/eslint/d8f7b00347a3af68dcfcf44d01eaecad\" title=\"\" target=\"_blank\" rel=\"noopener noreferrer\">开发一个eslint规则包</a>"}]}]}]},{"t":"list_item","d":2,"v":"浏览器","c":[{"t":"list_item","d":3,"v":"存储","c":[{"t":"list_item","d":4,"v":"cookie"},{"t":"list_item","d":4,"v":"indexDB"},{"t":"list_item","d":4,"v":"localStorage"},{"t":"list_item","d":4,"v":"sessionStorage"}]},{"t":"list_item","d":3,"v":"性能"},{"t":"list_item","d":3,"v":"缓存"},{"t":"list_item","d":3,"v":"跨域"},{"t":"list_item","d":3,"v":"事件机制","c":[{"t":"list_item","d":4,"v":"<a href=\"docs/浏览器/事件机制/7af5dc889f753bd70e5f7ef171c7060f\" title=\"\" target=\"_blank\" rel=\"noopener noreferrer\">事件机制</a>"}]},{"t":"list_item","d":3,"v":"插件开发","c":[{"t":"list_item","d":4,"v":"<a href=\"docs/浏览器/插件开发/2c4c0445df023db773d193c34210f844\" title=\"\" target=\"_blank\" rel=\"noopener noreferrer\">chrome扩展程序</a>"},{"t":"list_item","d":4,"v":"<a href=\"docs/浏览器/插件开发/bfe71b448da24918198c18263f04233a\" title=\"\" target=\"_blank\" rel=\"noopener noreferrer\">create-react-app创建谷歌扩展</a>"}]},{"t":"list_item","d":3,"v":"渲染机制"},{"t":"list_item","d":3,"v":"事件循环机制","c":[{"t":"list_item","d":4,"v":"<a href=\"docs/浏览器/事件循环机制/dc678db259507b0c4aeb94631e2dc8a7\" title=\"\" target=\"_blank\" rel=\"noopener noreferrer\">深入理解js事件循环机制（浏览器篇）</a>"}]}]},{"t":"list_item","d":2,"v":"<a href=\"docs/95a148348b289ba387509c05eb1c6af2\" title=\"\" target=\"_blank\" rel=\"noopener noreferrer\">关于该repo</a>"},{"t":"list_item","d":2,"v":"前端安全"},{"t":"list_item","d":2,"v":"协议规范"},{"t":"list_item","d":2,"v":"工具调试","c":[{"t":"list_item","d":3,"v":"charles"},{"t":"list_item","d":3,"v":"chrome","c":[{"t":"list_item","d":4,"v":"插件"},{"t":"list_item","d":4,"v":"控制台"}]},{"t":"list_item","d":3,"v":"vscode","c":[{"t":"list_item","d":4,"v":"插件","c":[{"t":"list_item","d":5,"v":"<a href=\"docs/Node.js/常用npm_package/9688efbb3877b7be40b25452ccaef48f\" title=\"\" target=\"_blank\" rel=\"noopener noreferrer\">清单</a>"}]},{"t":"list_item","d":4,"v":"快捷键"}]}]},{"t":"list_item","d":2,"v":"性能优化"},{"t":"list_item","d":2,"v":"操作系统","c":[{"t":"list_item","d":3,"v":"linux","c":[{"t":"list_item","d":4,"v":"linux基础","c":[{"t":"list_item","d":5,"v":"<a href=\"docs/操作系统/linux/linux基础/760bccd78d82b9e52641e9273b7baad5\" title=\"\" target=\"_blank\" rel=\"noopener noreferrer\">yum</a>"},{"t":"list_item","d":5,"v":"<a href=\"docs/工程化/打包/webpack/loader/自定义loader/9b68a2b86fd6b41392413eebbe754257\" title=\"\" target=\"_blank\" rel=\"noopener noreferrer\">基础</a>"},{"t":"list_item","d":5,"v":"<a href=\"docs/ECMASCript/b53484b1bcbe1911e09c68d510ac7d64\" title=\"\" target=\"_blank\" rel=\"noopener noreferrer\">学习资源</a>"}]},{"t":"list_item","d":4,"v":"脚本","c":[{"t":"list_item","d":5,"v":"<a href=\"docs/操作系统/linux/脚本/5d8743a01675138db72310478b6c7f30\" title=\"\" target=\"_blank\" rel=\"noopener noreferrer\">bash_shell脚本</a>"},{"t":"list_item","d":5,"v":"<a href=\"docs/操作系统/linux/脚本/c89e3ed149c086944696ba0fe3a5ffde\" title=\"\" target=\"_blank\" rel=\"noopener noreferrer\">expect脚本</a>"}]}]},{"t":"list_item","d":3,"v":"常见问题","c":[{"t":"list_item","d":4,"v":"<a href=\"docs/操作系统/常见问题/5d2f732d1880309d622ee322b766ddcb\" title=\"\" target=\"_blank\" rel=\"noopener noreferrer\">进程和线程区别todo</a>"}]}]},{"t":"list_item","d":2,"v":"网络协议","c":[{"t":"list_item","d":3,"v":"<a href=\"docs/网络协议/a7785cd0374e6044ab0a1c64fbbc81fa\" title=\"\" target=\"_blank\" rel=\"noopener noreferrer\">图解http</a>"}]},{"t":"list_item","d":2,"v":"设计模式"},{"t":"list_item","d":2,"v":"微信公众号"},{"t":"list_item","d":2,"v":"算法和数据结构"},{"t":"list_item","d":2,"v":"移动端跨平台开发"}]},(loadPlugins, items, opts) => loadPlugins(items, opts),["prism"],{"prism":true})</script>
 </body>
 </html>
